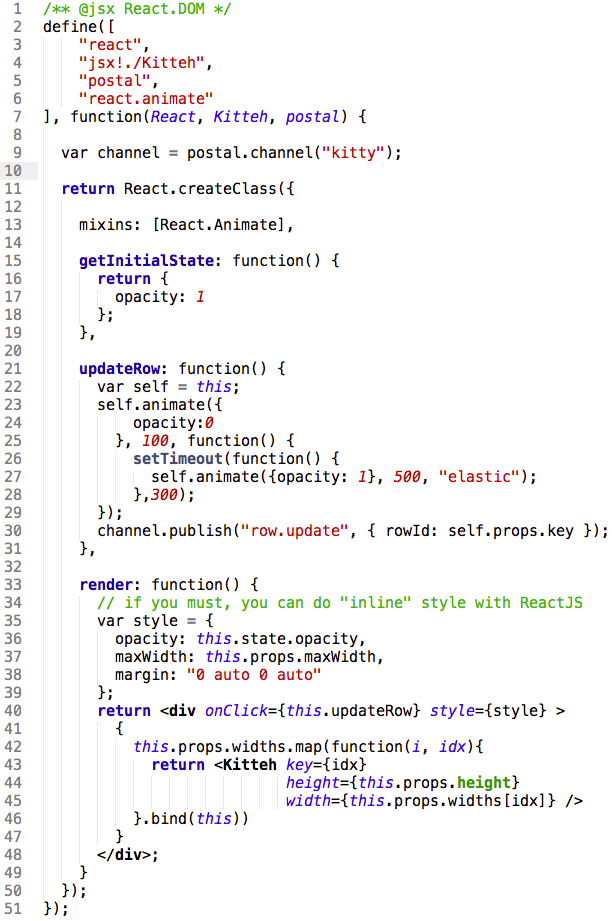
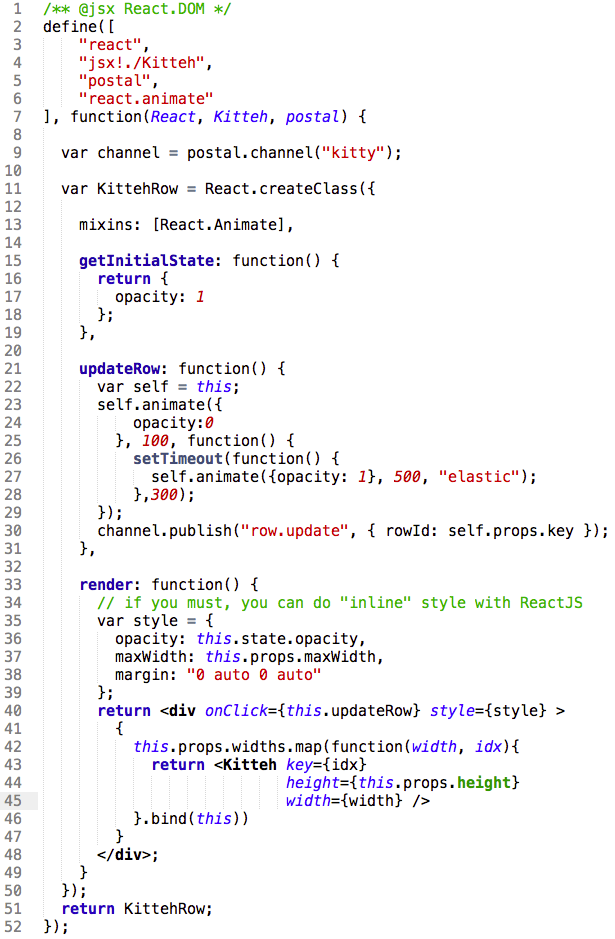
fixing screen captures,e tc.

Changed region(s): [[0.0621, 0.0, 0.9935, 1.0], [0.0, 0.0304, 0.0621, 1.0], [0.0621, 0.1216, 0.0931, 0.152]]

diff --git a/src/js/app/slides/form-overlay-example/SmartForm.jsx b/src/js/app/slides/form-overlay-example/SmartForm.jsx
@@ -3,12 +3,12 @@ define([
     "jsx!./ContactForm",
     "jsx!./Overlay",
     "jsx!./OnChangeViewer",
-    "./dataMixin"
-], function(React, ContactForm, Overlay, OnChangeViewer, dataMixin) {
+    "./msgMixin"
+], function(React, ContactForm, Overlay, OnChangeViewer, msgMixin) {
 
     var SmartForm = React.createClass({
 
-        mixins: [dataMixin],
+        mixins: [msgMixin],
         
         getInitialState: function() {
             return {
@@ -35,7 +35,7 @@ define([
             
         render: function() {
             return <div className="form-container">
-                { (this.state.notReady) ? <Overlay /> : null }
+                { (this.state.notReady) ? this.transferPropsTo(<Overlay />) : null }
                 <ContactForm
                     firstName={this.state.firstName}
                     lastName={this.state.lastName}

diff --git a/src/js/app/slides/data-mixin/slide.jsx b/src/js/app/slides/data-mixin/slide.jsx
@@ -5,7 +5,7 @@ define([
 ], function(React, TitledSlide) {
     var Slide =  React.createClass({
         render: function() {
-            return <TitledSlide classes="data-mixin" title="Data Mixin">
+            return <TitledSlide classes="data-mixin" title="Messaging Mixin">
                 <div className="scroller">
             	   <img className="slide-image slide-image-fill slide-image-scrollable" src={this.props.imageDir + "dataMixin.png"} />
                 </div>

diff --git a/src/js/app/slides/kitteh-grid-example/KittehRow.jsx b/src/js/app/slides/kitteh-grid-example/KittehRow.jsx
@@ -39,10 +39,10 @@ define([
       };
 			return <div onClick={this.updateRow} style={style} >
 				{
-					this.props.widths.map(function(i, idx){
+					this.props.widths.map(function(width, idx){
 						return <Kitteh key={idx}
                            height={this.props.height}
-                           width={this.props.widths[idx]} />
+                           width={width} />
 					}.bind(this))
 				}
 			</div>;	

diff --git a/src/js/app/slides/form-overlay-example/slide.jsx b/src/js/app/slides/form-overlay-example/slide.jsx
@@ -10,7 +10,7 @@ define([
         render: function() {
             return <div className="form-example">
                 <h2 className="slide-title">Form + Overlay Example</h2>
-                <SmartForm channel="form-example"/>
+                {this.transferPropsTo(<SmartForm channel="form-example"/>)}
             </div>;
         }
     });

diff --git a/src/js/app/slides/form-overlay-example/ContactForm.jsx b/src/js/app/slides/form-overlay-example/ContactForm.jsx
@@ -1,11 +1,11 @@
 define([
     "react",
-    "./dataMixin"
-], function(React, dataMixin) {
+    "./msgMixin"
+], function(React, msgMixin) {
 
   var ContactForm = React.createClass({
 
-    mixins: [dataMixin],
+    mixins: [msgMixin],
     
     handleChange: function(e) {
         var data = {};

diff --git a/src/js/app/slides/kitteh-grid-example/KittehGrid.jsx b/src/js/app/slides/kitteh-grid-example/KittehGrid.jsx
@@ -42,7 +42,7 @@ define([
 						var height = this.state.heights[idx];
 						return <KittehRow
     									key={ idx }
-    									widths={ this.state.rows[idx] }
+    									widths={ widths }
     									height={ height }
     									maxWidth={ this.props.width + 20 }
     							 />

diff --git a/src/js/app/slides/form-overlay-example/Overlay.jsx b/src/js/app/slides/form-overlay-example/Overlay.jsx
@@ -5,7 +5,7 @@ define([
     var Overlay = React.createClass({
         getDefaultProps: function() {
             return {
-                src: "js/app/slides/35/loadingGif.gif"
+                src: this.props.imageDir + "loadingGif.gif"
             };
         },
 
